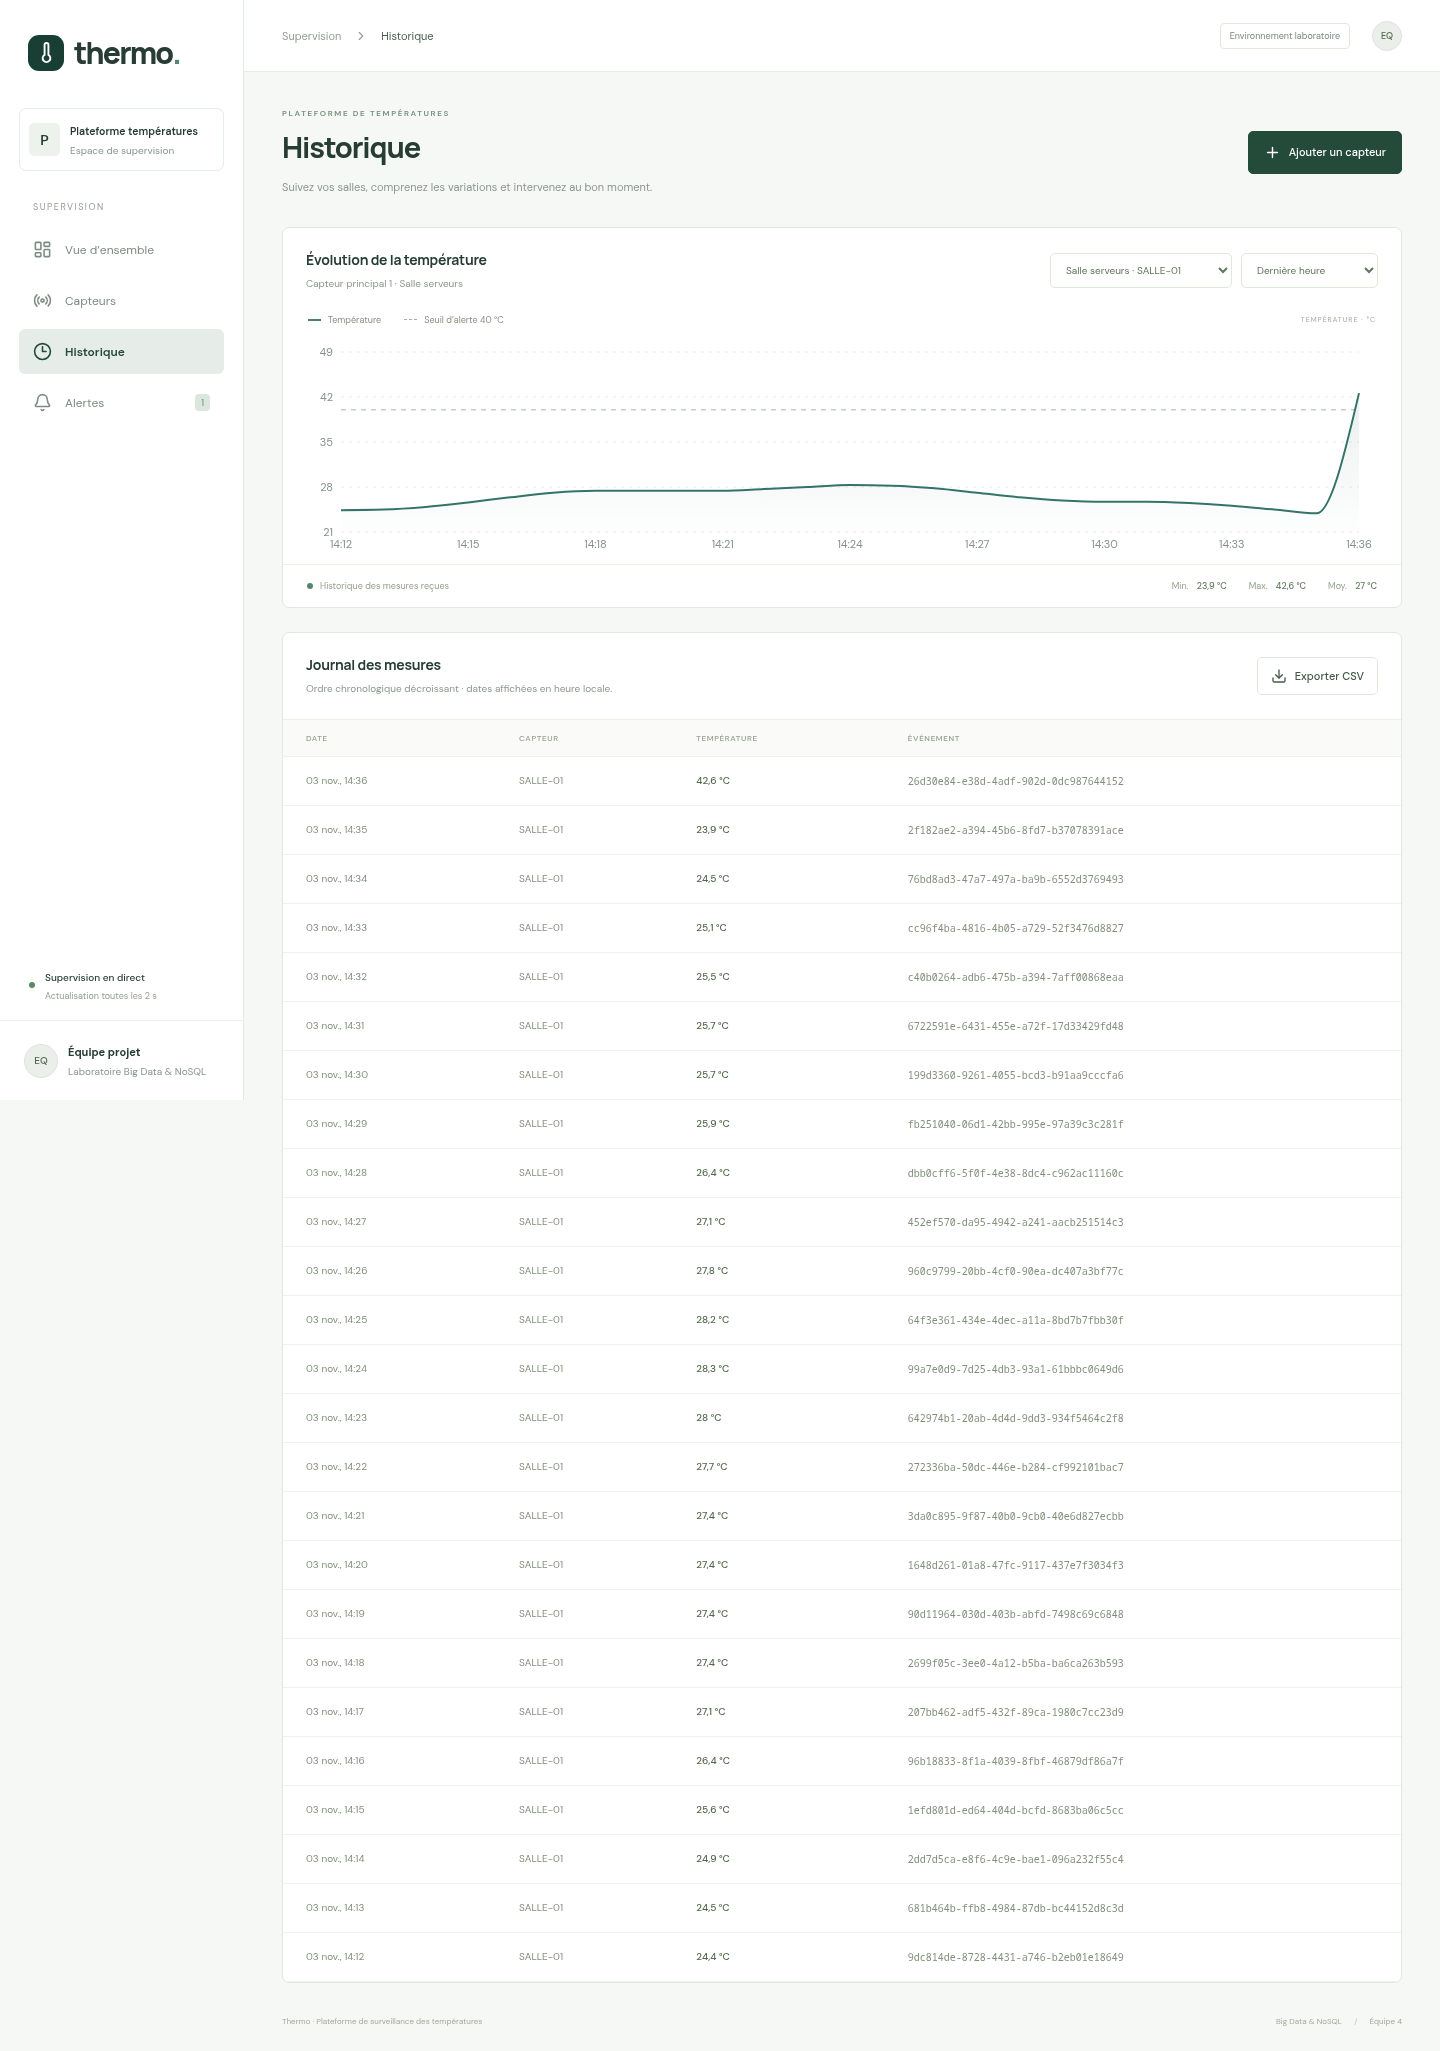
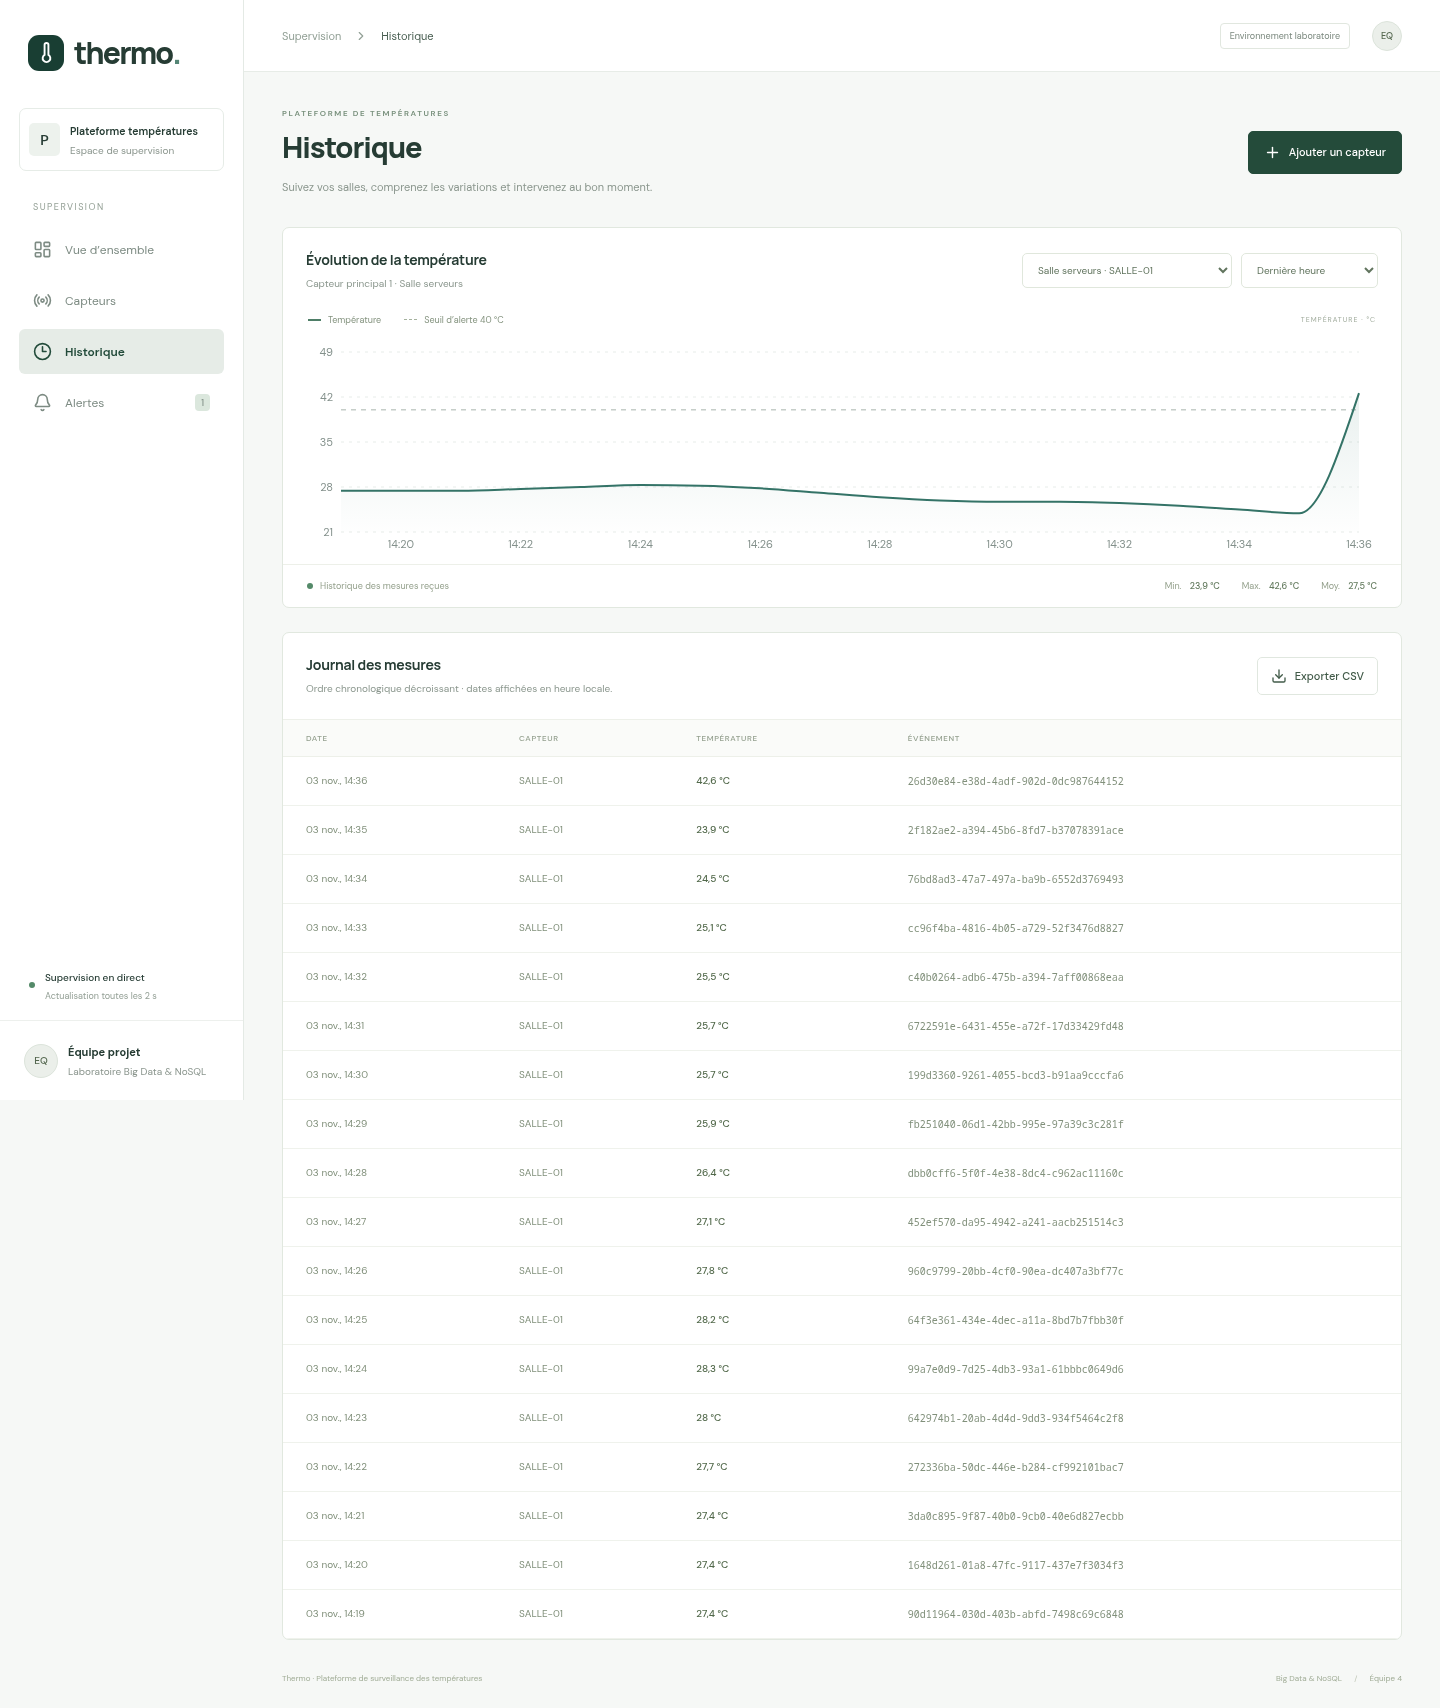
test(livraison): recette navigateur reproductible et preuves Docker/Ansible

diff --git a/scripts/generate-measures.py b/scripts/generate-measures.py
@@ -6,6 +6,14 @@ def call(path,body=None):
     r=urllib.request.Request(a.url+'/api/v1'+path,data=json.dumps(body).encode() if body else None,headers={'Content-Type':'application/json'})
     with urllib.request.urlopen(r,timeout=15) as f:return json.load(f)
 if a.count<1 or a.count>100 or a.interval<=0:p.error('count : 1 à 100 ; interval > 0')
+# Le conteneur générateur peut être lancé en même temps que Java.
+for attempt in range(120):
+    try:
+        with urllib.request.urlopen(a.url+'/actuator/health/readiness',timeout=10) as response:
+            if response.status==200: break
+    except (urllib.error.URLError,TimeoutError): pass
+    time.sleep(2)
+else: raise SystemExit('Backend indisponible après attente bornée')
 if a.seed:
     for i in range(1,a.count+1):
         body={'id':f'SALLE-{i:02}','libelle':f'Capteur {i:02}','salle':f'Salle {i:02}','seuilTemperature':40,'actif':True}

diff --git a/docs/resultats-recette.md b/docs/resultats-recette.md
@@ -12,6 +12,9 @@ Recette exécutée le **3 novembre 2026**, sur Linux, JDK 21 et Docker Engine 29
 | Newman / collection Postman | 20 assertions, zéro échec |
 | Navigateur Chromium | Création, modification, mesure, suivi PROCESSED, acquittement, CSV et mobile réussis ; aucune exception JavaScript |
 | Authentification Cassandra | Connexion applicative réussie, mauvais mot de passe refusé |
+| Ansible | Syntaxe du playbook validée avec community.docker 4.8.1, sans connexion aux VM |
+| Clone / volumes neufs | Pile séparée démarrée, recette HTTP réelle exécutée |
+| Images Java et React/Nginx | Construction multiétape réussie ; Java sous UID 10001, interface HTTP 200 et probes masquées par Nginx (404) |
 | Migration MongoDB | Deux exécutions successives réussies, sans suppression |
 
 ## Cas vérifiés

diff --git a/README.md b/README.md
@@ -138,6 +138,9 @@ cd ../frontend
 npm ci
 npm run build
 npm run dev               # http://localhost:5173 ; proxy API localhost:8080
+# Recette navigateur sur la pile Docker démarrée :
+npx playwright install chromium
+npm run test:ui
 cd ..
 
 python3 scripts/recette.py
